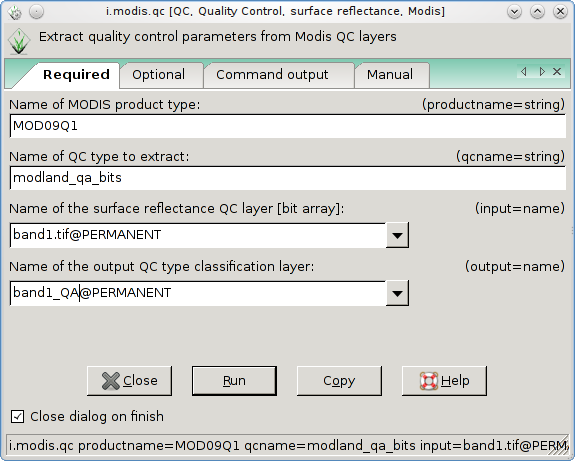
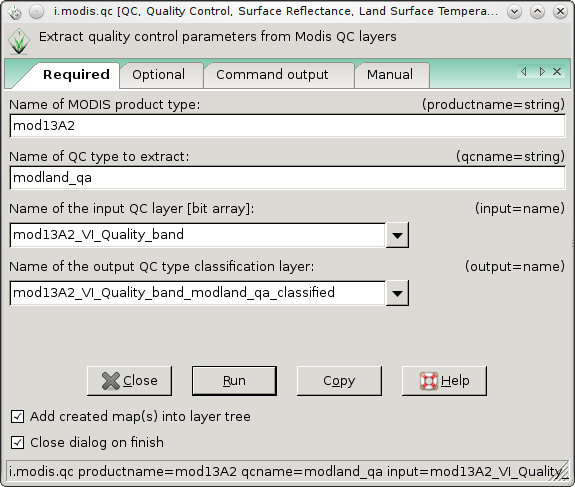
updated i.modis.qc section
git-svn-id: https://svn.osgeo.org/grass/grass-promo@44852 15284696-431f-4ddb-bdfa-cd5b030d7da7

diff --git a/tutorials/grass_modis/article_GIPE.tex b/tutorials/grass_modis/article_GIPE.tex
@@ -105,11 +105,40 @@ echo $listNDVI
 \end{smallverbatim}
 
 \section{QA Flags screening}
-Use the \textit{i.modis.qc} module.
+Use the \textit{i.modis.qc} module with MODIS Vegetation products (i.e. MOD13A2) as shown in the screenshot below:
+\begin{smallverbatim}
+MOD13A2: Mandatory QA Flags 1Km bits[0-1]
+* [00]= class 0: VI produced, good quality
+* [01]= class 1: VI produced, but check other QA
+* [10]= class 2: Pixel produced, but most probably cloud
+* [11]= class 3: Pixel not produced due to other \
+    reasons than clouds
+\end{smallverbatim}
 
 \begin{center}
  \includegraphics[scale=0.45]{i_modis_qc.png}
 \end{center}
+
+If you want to use shell scripting, the example below shows how to process Quality Assessment for Land Surface Temperature (i.e. MOD11A1):
+\begin{smallverbatim}
+
+MOD11A1: Mandatory QA Flags bits=[0-1]
+* [00]= class 0: LST produced, good quality, \
+    not necessary to examine more detailed QA
+* [01]= class 1: LST produced, other quality, \
+    recommend examination of more detailed QA
+* [10]= class 2: LST not produced due to cloud effects
+* [11]= class 3: LST not produced primarily due \
+    to reasons other than cloud
+
+for QC in mandatory_qa_11A1 data_quality_flag_11A1 \
+ emis_error_11A1 lst_error_11A1
+ do
+ i.modis.qc productname=mod11A1 qcname=$QC \
+ input=mod11A1.QC out=mod11A1_$QC
+done
+\end{smallverbatim}
+
 
 \address{GRASS Development Team\\
   \url{http://grass.osgeo.org}\\
